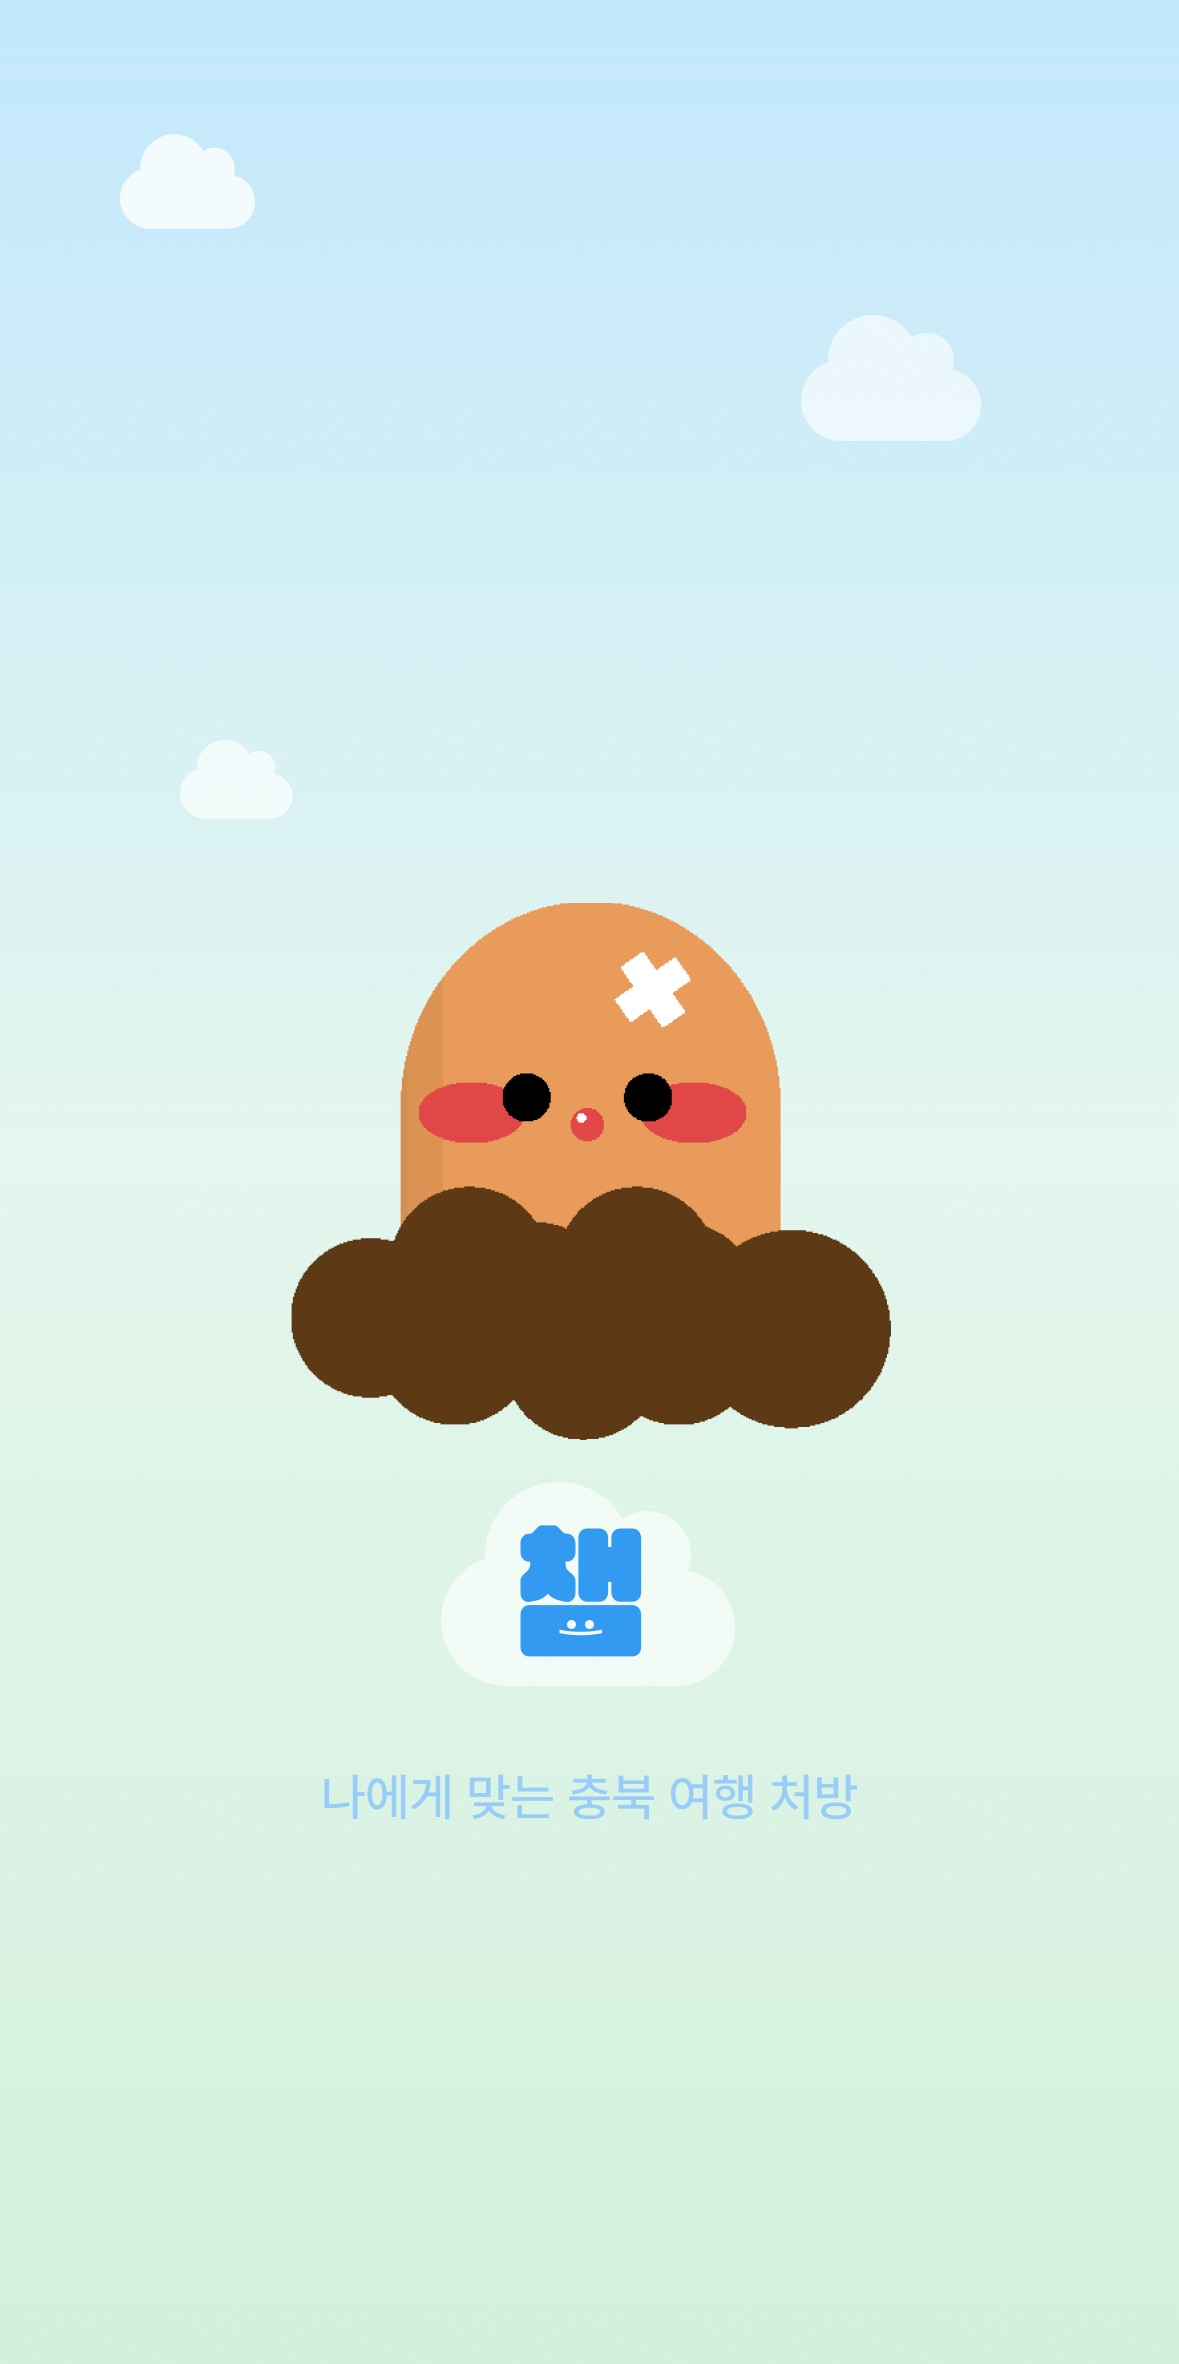
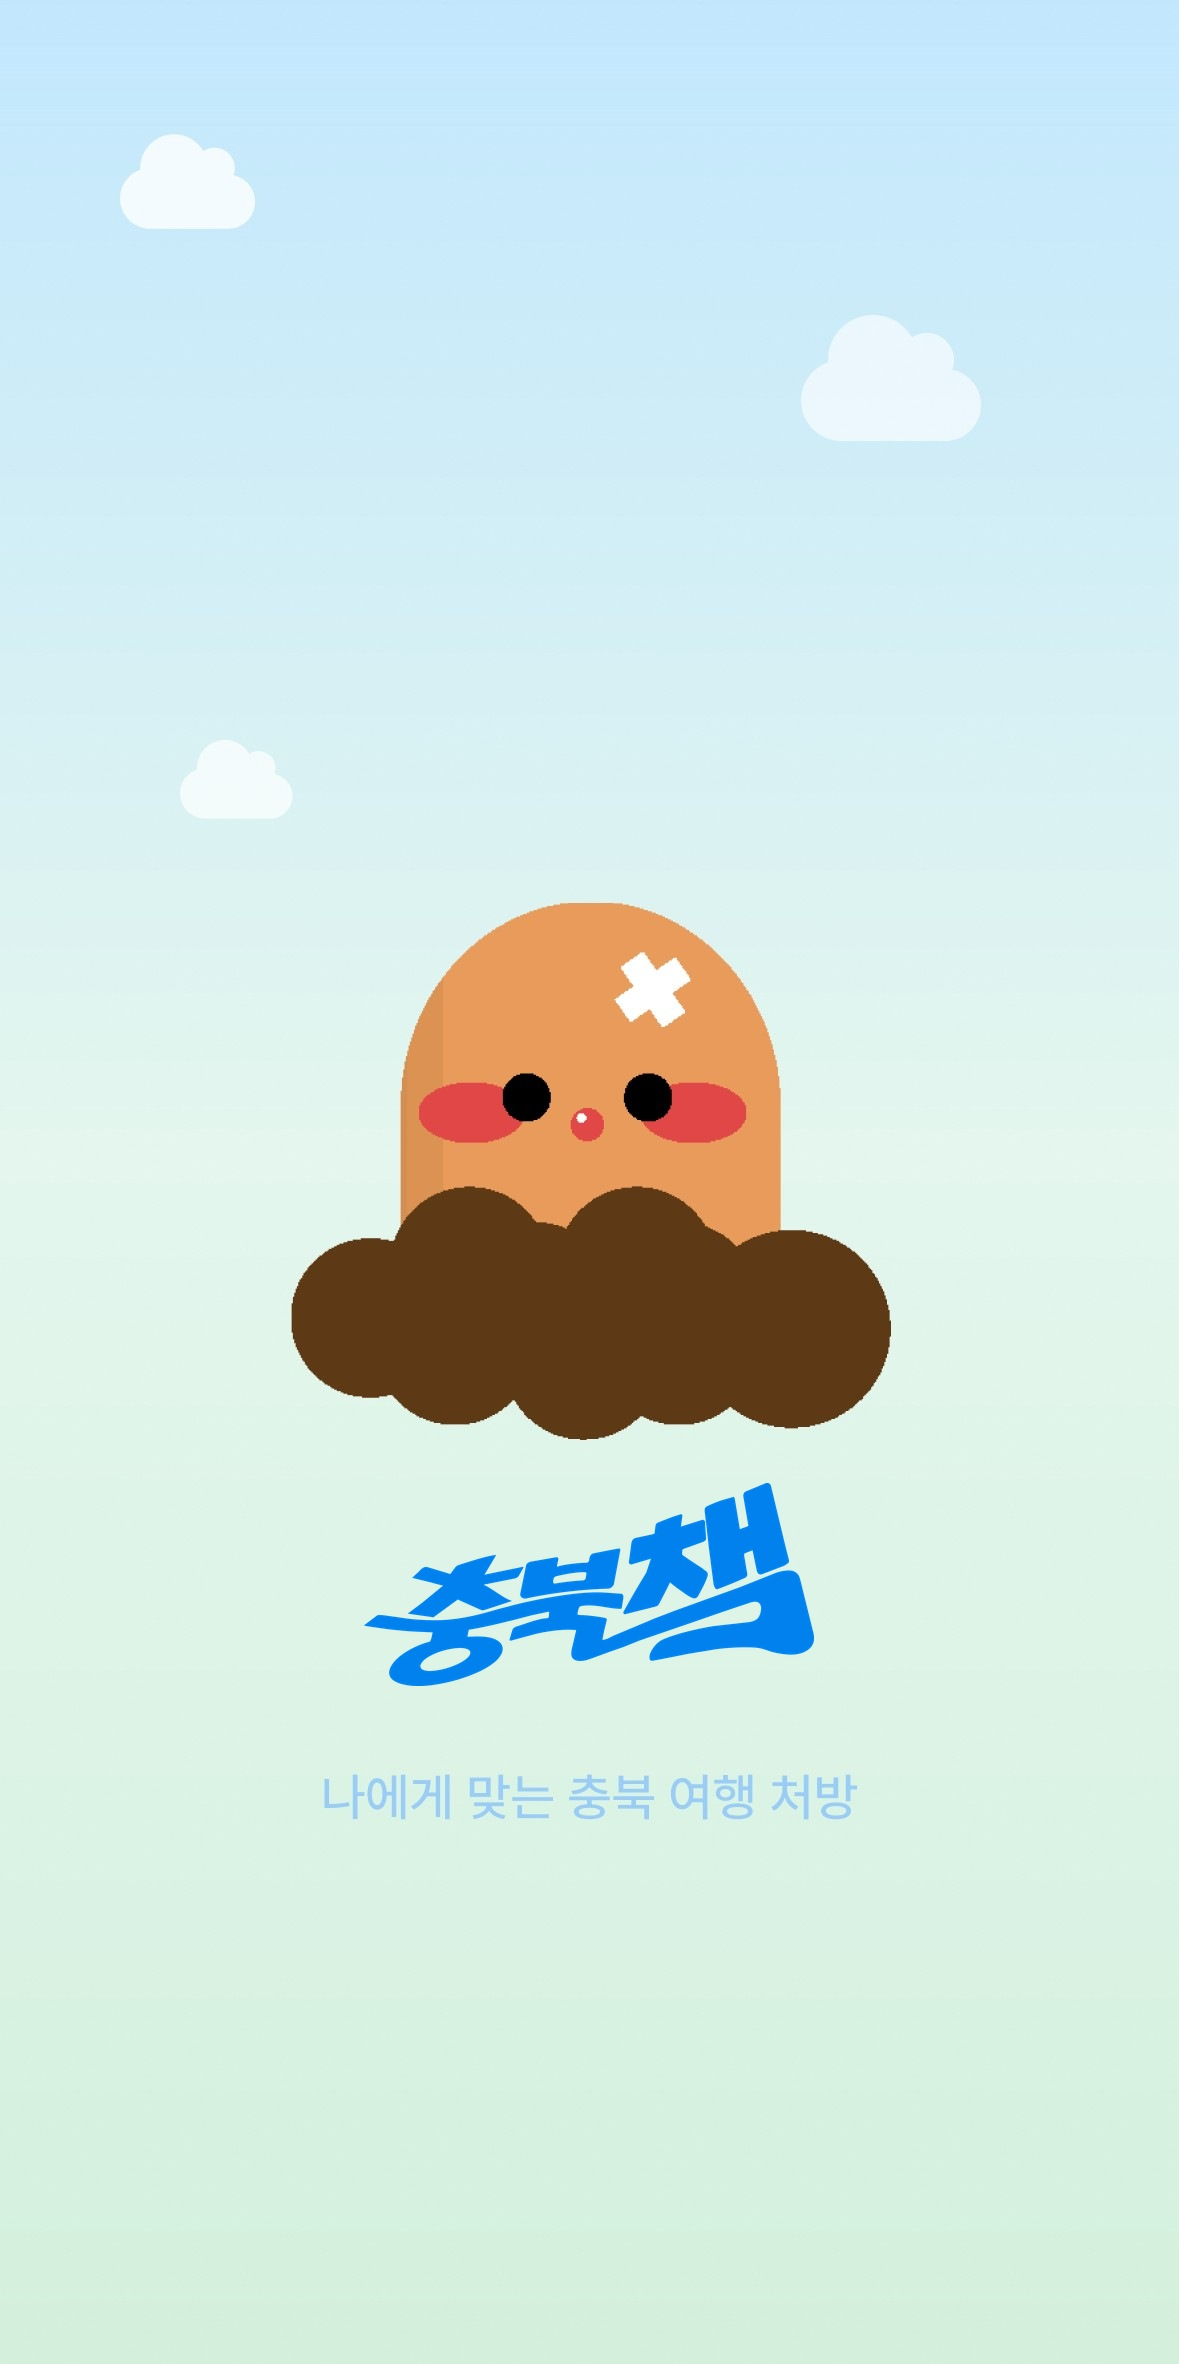
새 충북챔 로고 적용: 홈(새싹·글자 대체), 온보딩(구름+챔 대체)
Claude-Session: https://claude.ai/code/session_01AiJtLAmQ687dwMmwDkBebg

Changed region(s): [[0.3053, 0.6176, 0.7023, 0.7411]]

diff --git a/app.js b/app.js
@@ -918,7 +918,7 @@
   const CB_LOGO = `<svg class="cb-logo" viewBox="0 0 98 68" fill="none" aria-label="챔"><path d="M0 46.1429C0 58.2098 9.87656 68 22.05 68H78.4C89.2259 68 98 59.3027 98 48.5714C98 39.1759 91.2625 31.3286 82.32 29.5375C82.9478 27.9134 83.3 26.1375 83.3 24.2857C83.3 16.2411 76.7156 9.71429 68.6 9.71429C65.5834 9.71429 62.7659 10.625 60.4384 12.1732C56.1969 4.8875 48.2803 0 39.2 0C25.6637 0 14.7 10.8679 14.7 24.2857C14.7 24.6955 14.7153 25.1054 14.7306 25.5152C6.15563 28.5054 0 36.6107 0 46.1429Z" fill="white"/><g transform="translate(26.5 14.5)"><path d="M37.2002 26.5918C38.1281 26.5918 38.8642 26.8959 39.4082 27.5039C39.9522 28.1119 40.2236 28.9282 40.2236 29.9521V40.3203C40.2236 41.344 39.9519 42.1597 39.4082 42.7676C38.8642 43.3755 38.1281 43.6796 37.2002 43.6797H3.02441C2.09641 43.6797 1.36041 43.3756 0.816406 42.7676C0.272481 42.1596 5.47117e-05 41.3442 0 40.3203V29.9521C0 28.9281 0.272406 28.1119 0.816406 27.5039C1.36038 26.8961 2.09654 26.5918 3.02441 26.5918H37.2002ZM27.2158 34.752C24.912 35.2319 22.5441 35.4717 20.1123 35.4717C17.6803 35.4717 15.3118 35.232 13.0078 34.752V35.9043C15.3118 36.3843 17.6803 36.624 20.1123 36.624C22.5441 36.624 24.912 36.3842 27.2158 35.9043V34.752ZM17.0127 31.5352C16.1843 31.5352 15.5127 32.2067 15.5127 33.0352C15.5127 33.8636 16.1843 34.5352 17.0127 34.5352C17.8409 34.5349 18.5127 33.8634 18.5127 33.0352C18.5127 32.2069 17.8409 31.5354 17.0127 31.5352ZM23.0127 31.5352C22.1843 31.5352 21.5127 32.2067 21.5127 33.0352C21.5127 33.8636 22.1843 34.5352 23.0127 34.5352C23.8409 34.5349 24.5127 33.8634 24.5127 33.0352C24.5127 32.2069 23.8409 31.5354 23.0127 31.5352ZM11.2324 0C11.6482 9.70041e-05 12.0161 0.143866 12.3359 0.431641C12.6559 0.719567 12.976 1.03971 13.2959 1.3916C13.6158 1.74349 13.936 2.06363 14.2559 2.35156C14.5759 2.63956 14.9444 2.78418 15.3604 2.78418C16.2562 2.78426 16.9756 3.08842 17.5195 3.69629C18.0635 4.3042 18.3359 5.11976 18.3359 6.14355V8.73633C18.3359 9.76018 18.0635 10.5757 17.5195 11.1836C16.9755 11.7916 16.2395 12.0957 15.3115 12.0957H15.0244V12.4316C15.0244 13.8396 15.4405 14.8481 16.2725 15.4561C17.0403 16.064 17.5685 16.5921 17.8564 17.04C18.1763 17.456 18.3359 17.9366 18.3359 18.4805V22.3203C18.3359 23.3441 18.0476 24.1596 17.4717 24.7676C16.9277 25.3436 16.2075 25.5843 15.3115 25.4883C14.0958 25.3283 12.9442 25.0558 11.8564 24.6719C10.7685 24.2559 9.8561 23.6 9.12012 22.7041C8.44821 23.6 7.56826 24.2559 6.48047 24.6719C5.39247 25.0559 4.22359 25.3283 2.97559 25.4883C2.11178 25.5842 1.39231 25.3435 0.816406 24.7676C0.272481 24.1596 5.47117e-05 23.3441 0 22.3203V18.4805C0 17.5205 0.688453 16.4962 2.06445 15.4082C2.41637 15.1202 2.70377 14.7358 2.92773 14.2559C3.15173 13.7439 3.26367 13.1356 3.26367 12.4316V12.0957H3.02441C2.09641 12.0957 1.36041 11.7916 0.816406 11.1836C0.272479 10.5757 5.77512e-05 9.76016 0 8.73633V6.14355C7.90266e-05 5.11976 0.272485 4.3042 0.816406 3.69629C1.36032 3.08841 2.0798 2.78427 2.97559 2.78418C3.39159 2.78418 3.76008 2.63956 4.08008 2.35156C4.39998 2.06362 4.70427 1.74351 4.99219 1.3916C5.31209 1.03972 5.63224 0.719556 5.95215 0.431641C6.27198 0.143901 6.65585 0.000103754 7.10352 0H11.2324ZM26.208 1.05566C27.1359 1.05567 27.872 1.35985 28.416 1.96777C28.96 2.57577 29.2324 3.39202 29.2324 4.41602V7.2002H30.2881V4.41602C30.2881 3.39208 30.5596 2.57576 31.1035 1.96777C31.6794 1.35988 32.4157 1.05577 33.3115 1.05566H37.2002C38.1281 1.05571 38.8642 1.35983 39.4082 1.96777C39.9522 2.57577 40.2236 3.39202 40.2236 4.41602V22.0801C40.2236 23.104 39.9522 23.9203 39.4082 24.5283C38.8642 25.1362 38.1281 25.4404 37.2002 25.4404H33.3115C32.4157 25.4403 31.6794 25.1362 31.1035 24.5283C30.5596 23.9203 30.2881 23.104 30.2881 22.0801V18.8164H29.2324V22.0801C29.2324 23.104 28.96 23.9203 28.416 24.5283C27.872 25.1362 27.1359 25.4404 26.208 25.4404H22.3203C21.3925 25.4404 20.6563 25.1361 20.1123 24.5283C19.5683 23.9203 19.2959 23.104 19.2959 22.0801V4.41602C19.2959 3.39202 19.5683 2.57577 20.1123 1.96777C20.6563 1.35996 21.3925 1.05566 22.3203 1.05566H26.208Z" fill="#339AF1"/></g></svg>`;
   // 홈 왼쪽 위 로고: 피그마 '챔' 로고 마크 + 충북챔
   const CB_MARK = `<svg class="cb-mark" viewBox="0 0 41 44" fill="none" aria-label="챔"><path d="M37.2002 26.5918C38.1281 26.5918 38.8642 26.8959 39.4082 27.5039C39.9522 28.1119 40.2236 28.9282 40.2236 29.9521V40.3203C40.2236 41.344 39.9519 42.1597 39.4082 42.7676C38.8642 43.3755 38.1281 43.6796 37.2002 43.6797H3.02441C2.09641 43.6797 1.36041 43.3756 0.816406 42.7676C0.272481 42.1596 5.47117e-05 41.3442 0 40.3203V29.9521C0 28.9281 0.272406 28.1119 0.816406 27.5039C1.36038 26.8961 2.09654 26.5918 3.02441 26.5918H37.2002ZM27.2158 34.752C24.912 35.2319 22.5441 35.4717 20.1123 35.4717C17.6803 35.4717 15.3118 35.232 13.0078 34.752V35.9043C15.3118 36.3843 17.6803 36.624 20.1123 36.624C22.5441 36.624 24.912 36.3842 27.2158 35.9043V34.752ZM17.0127 31.5352C16.1843 31.5352 15.5127 32.2067 15.5127 33.0352C15.5127 33.8636 16.1843 34.5352 17.0127 34.5352C17.8409 34.5349 18.5127 33.8634 18.5127 33.0352C18.5127 32.2069 17.8409 31.5354 17.0127 31.5352ZM23.0127 31.5352C22.1843 31.5352 21.5127 32.2067 21.5127 33.0352C21.5127 33.8636 22.1843 34.5352 23.0127 34.5352C23.8409 34.5349 24.5127 33.8634 24.5127 33.0352C24.5127 32.2069 23.8409 31.5354 23.0127 31.5352ZM11.2324 0C11.6482 9.70041e-05 12.0161 0.143866 12.3359 0.431641C12.6559 0.719567 12.976 1.03971 13.2959 1.3916C13.6158 1.74349 13.936 2.06363 14.2559 2.35156C14.5759 2.63956 14.9444 2.78418 15.3604 2.78418C16.2562 2.78426 16.9756 3.08842 17.5195 3.69629C18.0635 4.3042 18.3359 5.11976 18.3359 6.14355V8.73633C18.3359 9.76018 18.0635 10.5757 17.5195 11.1836C16.9755 11.7916 16.2395 12.0957 15.3115 12.0957H15.0244V12.4316C15.0244 13.8396 15.4405 14.8481 16.2725 15.4561C17.0403 16.064 17.5685 16.5921 17.8564 17.04C18.1763 17.456 18.3359 17.9366 18.3359 18.4805V22.3203C18.3359 23.3441 18.0476 24.1596 17.4717 24.7676C16.9277 25.3436 16.2075 25.5843 15.3115 25.4883C14.0958 25.3283 12.9442 25.0558 11.8564 24.6719C10.7685 24.2559 9.8561 23.6 9.12012 22.7041C8.44821 23.6 7.56826 24.2559 6.48047 24.6719C5.39247 25.0559 4.22359 25.3283 2.97559 25.4883C2.11178 25.5842 1.39231 25.3435 0.816406 24.7676C0.272481 24.1596 5.47117e-05 23.3441 0 22.3203V18.4805C0 17.5205 0.688453 16.4962 2.06445 15.4082C2.41637 15.1202 2.70377 14.7358 2.92773 14.2559C3.15173 13.7439 3.26367 13.1356 3.26367 12.4316V12.0957H3.02441C2.09641 12.0957 1.36041 11.7916 0.816406 11.1836C0.272479 10.5757 5.77512e-05 9.76016 0 8.73633V6.14355C7.90266e-05 5.11976 0.272485 4.3042 0.816406 3.69629C1.36032 3.08841 2.0798 2.78427 2.97559 2.78418C3.39159 2.78418 3.76008 2.63956 4.08008 2.35156C4.39998 2.06362 4.70427 1.74351 4.99219 1.3916C5.31209 1.03972 5.63224 0.719556 5.95215 0.431641C6.27198 0.143901 6.65585 0.000103754 7.10352 0H11.2324ZM26.208 1.05566C27.1359 1.05567 27.872 1.35985 28.416 1.96777C28.96 2.57577 29.2324 3.39202 29.2324 4.41602V7.2002H30.2881V4.41602C30.2881 3.39208 30.5596 2.57576 31.1035 1.96777C31.6794 1.35988 32.4157 1.05577 33.3115 1.05566H37.2002C38.1281 1.05571 38.8642 1.35983 39.4082 1.96777C39.9522 2.57577 40.2236 3.39202 40.2236 4.41602V22.0801C40.2236 23.104 39.9522 23.9203 39.4082 24.5283C38.8642 25.1362 38.1281 25.4404 37.2002 25.4404H33.3115C32.4157 25.4403 31.6794 25.1362 31.1035 24.5283C30.5596 23.9203 30.2881 23.104 30.2881 22.0801V18.8164H29.2324V22.0801C29.2324 23.104 28.96 23.9203 28.416 24.5283C27.872 25.1362 27.1359 25.4404 26.208 25.4404H22.3203C21.3925 25.4404 20.6563 25.1361 20.1123 24.5283C19.5683 23.9203 19.2959 23.104 19.2959 22.0801V4.41602C19.2959 3.39202 19.5683 2.57577 20.1123 1.96777C20.6563 1.35996 21.3925 1.05566 22.3203 1.05566H26.208Z" fill="#339AF1"/></svg>`;
-  chain("home", (el) => { overlay(el, "home", 24, 56, 29, 31, CB_MARK, "home-mark").style.pointerEvents = "none"; });
+  chain("home", (el) => { overlay(el, "home", 22, 52, 82, 37, '<img class="cb-word" src="assets/logo/chungbukcham-tight.svg" alt="충북챔">', "home-mark").style.pointerEvents = "none"; });
   // ── 청주 지도: 장소마다 눌러서 고르기 → 카드 바뀜 → 스탬프 ──
   const CJ = [
     { name: "운보의집", img: "l-unbo", box: [86, 315, 85, 63], dist: "350m · 도보 5분", rate: "4.8", stamp: "assets/cj/past1.png" },

diff --git a/index.html b/index.html
@@ -13,7 +13,7 @@
   <link rel="manifest" href="manifest.json" />
   <meta name="apple-mobile-web-app-title" content="충북챔" />
   <link rel="stylesheet" href="https://cdn.jsdelivr.net/gh/orioncactus/pretendard@v1.3.9/dist/web/static/pretendard.min.css" />
-  <link rel="stylesheet" href="style.css?v=1794881702" />
+  <link rel="stylesheet" href="style.css?v=1794882142" />
 </head>
 <body>
   <div id="backdrop"></div>
@@ -21,6 +21,6 @@
   <div id="toast" role="status"></div>
   <script src="data.js?v=1794881298"></script>
   <script src="tabicons.js?v=1"></script>
-  <script src="app.js?v=1794881702"></script>
+  <script src="app.js?v=1794882142"></script>
 </body>
 </html>

diff --git a/style.css b/style.css
@@ -773,3 +773,4 @@ button:focus, button:focus-visible, .ov:focus { outline: none; }
 @keyframes stampDone { 0% { transform: scale(.92); } 100% { transform: scale(1); } }
 .home-logo .cb-logo { display: block; width: 66px; height: 46px; filter: drop-shadow(0 3px 6px rgba(51,154,241,.18)); }
 .home-mark .cb-mark { display: block; width: 29px; height: 31px; }
+.home-mark .cb-word { display: block; width: 82px; height: 37px; }
